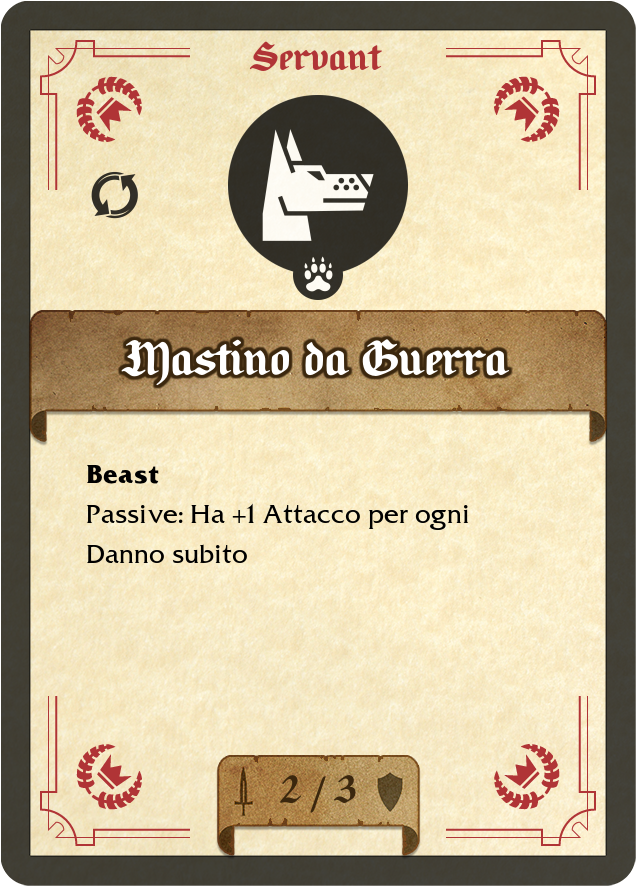
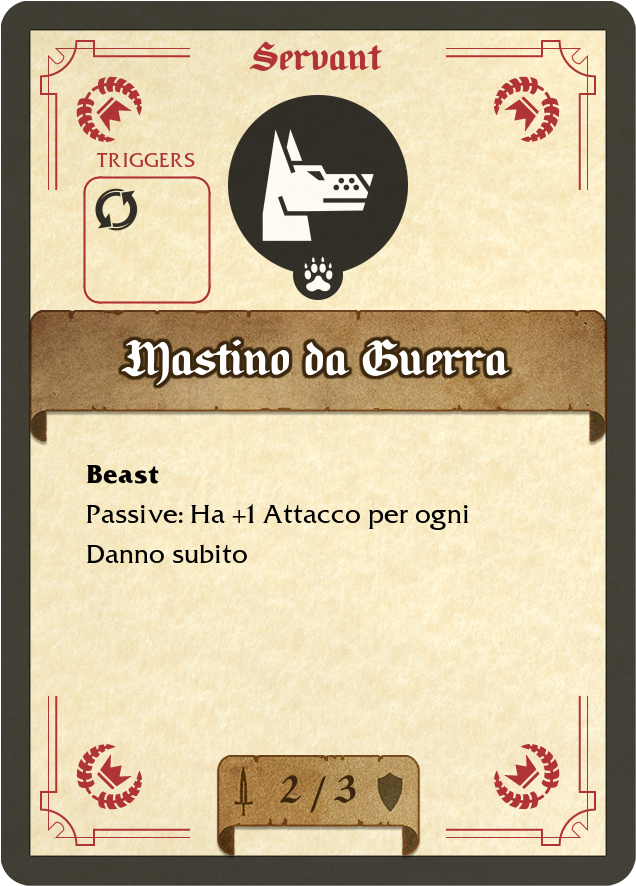
Rounded corners on triggers/attributes containers

Changed region(s): [[0.1195, 0.1524, 0.3286, 0.3352], [0.1494, 0.3352, 0.2987, 0.3657], [0.3286, 0.2133, 0.3585, 0.3047]]

diff --git a/resources/php_scripts/generateCardImage.php b/resources/php_scripts/generateCardImage.php
@@ -1,19 +1,53 @@
 		<?php
 
-			function roundedRectangle($_x1, $_y1, $_x2, $_y2, $_r, $color, $ctx){
+			function roundedRectangle($_x1, $_y1, $_x2, $_y2, $_r, $color, $ctx, $manager, $rate){
+				$linesLayer = $manager->canvas($ctx->width()*$rate, $ctx->height()*$rate);
+				$maskLayer = $manager->canvas($ctx->width()*$rate, $ctx->height()*$rate);
+				$maskLayer->fill("#ffffff");
+
+				$circles = [
+					["x" => $_x1 + $_r, "y" => $_y1 + $_r],
+					["x" => $_x2 - $_r, "y" => $_y1 + $_r],
+					["x" => $_x2 - $_r, "y" => $_y2 - $_r],
+					["x" => $_x1 + $_r, "y" => $_y2 - $_r]
+				];
+
+				foreach ($circles as $key => $circle) {
+				$linesLayer->circle($_r*2,$circle["x"], $circle["y"], function ($draw) use ($color){
+					    $draw->border(2, $color);
+					});
+				}
+
+				$masks = [
+					["x1" => $_x1, "y1" => $_y1 + $_r, "x2" => $_x2, "y2" => $_y2 - $_r],
+					["x1" => $_x1 + $_r, "y1" => $_y1, "x2" => $_x2 - $_r, "y2" => $_y2]
+				];
+
+				foreach ($masks as $key => $mask) {
+				$maskLayer->rectangle($mask["x1"], $mask["y1"], $mask["x2"], $mask["y2"], function ($draw) {
+					    $draw->background('rgba(0, 0, 0, 1)');
+					});
+				}
+
+				$linesLayer->mask($maskLayer);
+
 				$lines = [
-					["x1" => $_x1 - $_r, "y1" => $_y1, "x2" => $_x2 + $_r, "y2" => $_y1 ],
+					["x1" => $_x1 + $_r, "y1" => $_y1, "x2" => $_x2 - $_r, "y2" => $_y1 ],
 					["x1" => $_x2, "y1" => $_y1 + $_r, "x2" => $_x2, "y2" => $_y2 - $_r ],
-					["x1" => $_x1 - $_r, "y1" => $_y2, "x2" => $_x2 + $_r, "y2" => $_y2 ],
+					["x1" => $_x1 + $_r, "y1" => $_y2, "x2" => $_x2 - $_r, "y2" => $_y2 ],
 					["x1" => $_x1, "y1" => $_y1 + $_r, "x2" => $_x1, "y2" => $_y2 - $_r ]
 				];
 
+				print_r($lines);
+
 				foreach ($lines as $key => $line) {
-				$ctx->line($line["x1"], $line["y1"], $line["x2"], $line["y2"], function ($draw) use ($color){
+				$linesLayer->line($line["x1"], $line["y1"], $line["x2"], $line["y2"], function ($draw) use ($color){
 					    $draw->color($color);
 					    $draw->width(2);
 					});
 				}
+
+				$ctx->insert($linesLayer, 'top-left', 0, 0);
 
 			}
 
@@ -386,7 +420,7 @@
 						    $draw->border(2, $mainColor);
 						});
 						*/
-						roundedRectangle($sideIconsWrapper["x1"], $sideIconsWrapper["y1"], $sideIconsWrapper["x2"], $sideIconsWrapper["y2"], 15*$rate, $mainColor, $card);
+						roundedRectangle($sideIconsWrapper["x1"], $sideIconsWrapper["y1"], $sideIconsWrapper["x2"], $sideIconsWrapper["y2"], 15*$rate, $mainColor, $card , $manager, $rate);
 					}
 
 					if($addedProperties > 0){
@@ -403,7 +437,7 @@
 						    $draw->border(2, $mainColor);
 						});
 						*/
-						roundedRectangle($cardW - $sideIconsWrapper["x1"], $sideIconsWrapper["y1"], $cardW - $sideIconsWrapper["x2"], $sideIconsWrapper["y2"], 15*$rate, $mainColor, $card);
+						roundedRectangle($cardW - $sideIconsWrapper["x2"], $sideIconsWrapper["y1"], $cardW - $sideIconsWrapper["x1"], $sideIconsWrapper["y2"], 15*$rate, $mainColor, $card , $manager, $rate);
 					}
 
 					//servant/champion values
